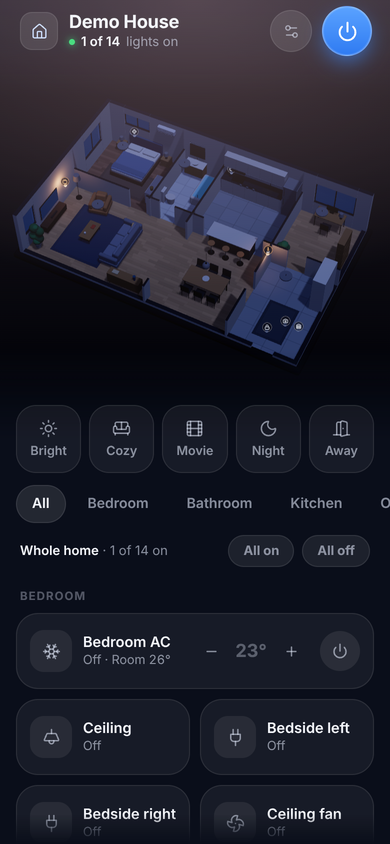
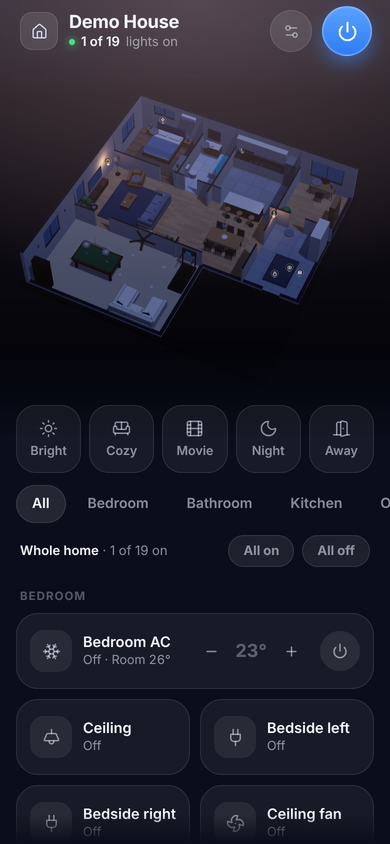
Demo Rec room with the extra models; docs; v0.2.0
- plans/demo.json: a carpeted Rec room with poolTable, sectional,
  treadmill and glassCabinet, lit by cans, sconce (both with points),
  fan, pendantBar and dome, linked to new demo_ entities only
- render tests: the Rec room loads with no console errors, its lights
  switch, and the editor moves a multi-point light as one
- privacy check: CSS classes such as .p-light.cans are not entity ids
- README and plan-format.md list the new furniture, floor and light types

Claude-Session: https://claude.ai/code/session_01HyyzAKm8x8BSYESU92KorK

diff --git a/tests/render/card.spec.js b/tests/render/card.spec.js
@@ -195,3 +195,62 @@ test('the AC sheet follows Home Assistant\'s temperature unit', async ({ page },
   await page.locator('house-control-card .sheet button[aria-label="Warmer"]').click();
   await expect.poll(() => calls(page)).toContainEqual({ domain: 'climate', service: 'set_temperature', data: { entity_id: 'climate.demo_bedroom_ac', temperature: 74 } });
 });
+
+test('the Rec room loads the extra furniture and light types without console errors', async ({ page }, info) => {
+  const urls = recordRequests(page);
+  const consoleErrors = [];
+  page.on('console', (m) => { if (m.type() === 'error' || m.type() === 'warning') consoleErrors.push(m.text()); });
+  const errors = await open(page);
+  const loaded = await page.evaluate(() => {
+    const { world, config } = window.__test.card._ui.debug;
+    const unit = (id) => world.lights.get(id);
+    return {
+      furniture: config.furniture.map((f) => f.type),
+      fixtures: Object.fromEntries(['rec.cans', 'rec.pool', 'rec.sconces', 'rec.fan', 'rec.dome']
+        .map((id) => [id, unit(id) ? unit(id).lights.length : 0])),
+    };
+  });
+  for (const type of ['poolTable', 'sectional', 'treadmill', 'glassCabinet']) expect(loaded.furniture).toContain(type);
+  // one three.js light per fixture: four cans, two sconces, the bar's two shades
+  expect(loaded.fixtures).toEqual({ 'rec.cans': 4, 'rec.pool': 2, 'rec.sconces': 2, 'rec.fan': 1, 'rec.dome': 1 });
+
+  await page.locator('house-control-card .room', { hasText: 'Rec room' }).click();
+  await expect(page.locator('house-control-card .tile[aria-label="Cans"]')).toBeVisible();
+  await resetCalls(page);
+  await page.locator('house-control-card .tile[aria-label="Cans"]').click();
+  await expect.poll(() => calls(page)).toContainEqual({ domain: 'light', service: 'turn_on', data: { entity_id: 'light.demo_rec_cans' } });
+  await page.evaluate(() => {
+    const { hass } = window.__test;
+    for (const id of ['light.demo_rec_pool_table', 'light.demo_rec_sconces', 'light.demo_rec_fan_light']) {
+      hass.set(id, { ...hass.states[id], state: 'on', attributes: { ...hass.states[id].attributes, brightness: 230 } });
+    }
+  });
+  await expect.poll(() => page.evaluate(() => window.__test.card._ui.debug.world.lights.get('rec.pool').goal)).toBeGreaterThan(0.8);
+  await page.waitForTimeout(1500);
+  await page.screenshot({ path: info.outputPath('rec-room.png') });
+  expect(errors).toEqual([]);
+  expect(consoleErrors).toEqual([]);
+  expectSameOrigin(urls, page.url());
+});
+
+test('the editor shows every point of a multi-point light and moves them together', async ({ page }, info) => {
+  await open(page);
+  await page.locator('house-control-card .top .round:not(.power)').click();
+  await page.locator('house-control-card .menu button', { hasText: 'Edit home' }).click();
+  const layer = page.locator('house-control-card .hc-editor-layer');
+  await expect(layer.locator('.p-light.cans .p-point')).toHaveCount(4);
+  await expect(layer.locator('.p-light.sconce .p-point')).toHaveCount(2);
+  await layer.locator('.p-light.cans .p-point').first().click();
+  await expect(layer.locator('.p-light.cans.sel')).toHaveCount(1);
+  await page.keyboard.press('ArrowRight');
+  await page.keyboard.press('ArrowDown');
+  await page.screenshot({ path: info.outputPath('editor-points.png') });
+  await page.locator('house-control-card .p-save').click();
+  // exact: also proves selecting a light did not write "capabilities": [] (that would make it on/off only)
+  await expect.poll(() => page.evaluate(() => window.__test.hass.dashboard.views[0].cards[0].plan.lights.find((l) => l.id === 'rec.cans')))
+    .toEqual({
+      id: 'rec.cans', name: 'Cans', room: 'rec', type: 'cans', pos: [6.25, 11.65],
+      points: [[5.35, 10.95], [7.15, 10.95], [5.35, 12.35], [7.15, 12.35]],
+      link: { service: 'homeassistant', id: 'light.demo_rec_cans' },
+    });
+});

diff --git a/tests/harness/mock-hass.js b/tests/harness/mock-hass.js
@@ -23,6 +23,11 @@ export function demoStates() {
     light('light.demo_office_ceiling', 'Office ceiling', ['brightness']),
     plain('switch.demo_desk_lamp', 'Desk lamp', 'on'),
     light('light.demo_hall_ceiling', 'Hall ceiling', ['color_temp']),
+    light('light.demo_rec_cans', 'Rec room cans', ['brightness']),
+    light('light.demo_rec_pool_table', 'Pool table light', ['color_temp']),
+    light('light.demo_rec_sconces', 'Rec room sconces', ['onoff']),
+    light('light.demo_rec_fan_light', 'Rec room fan light', ['brightness']),
+    light('light.demo_rec_dome', 'Rec room entry', ['onoff']),
     plain('climate.demo_bedroom_ac', 'Bedroom AC', 'off', {
       hvac_modes: ['off', 'cool', 'heat', 'fan_only', 'auto'], fan_modes: ['auto', 'low', 'high'],
       temperature: 23, current_temperature: 25.5, min_temp: 16, max_temp: 30, fan_mode: 'auto',

diff --git a/tests/unit/validate.test.js b/tests/unit/validate.test.js
@@ -9,7 +9,7 @@ const room = demo.rooms[0].id;
 
 test('the demo plan is valid', () => {
   const { config, warnings } = validatePlan(demo);
-  assert.equal(config.rooms.length, 7);
+  assert.equal(config.rooms.length, 8);
   assert.equal(config.entities.length, 7);
   assert.deepEqual(warnings, []);
 });

diff --git a/docs/plan-format.md b/docs/plan-format.md
@@ -37,19 +37,67 @@ the south wall.
 
 | Section | Fields |
 | --- | --- |
-| `rooms` | `id`, `name`, `rect: [x, z, width, depth]`, `floor` (`oak`, `walnut`, `tile`, `stone`). Rooms are rectangles: an L-shaped room is two rooms. Where rooms touch, an inner wall appears. |
+| `rooms` | `id`, `name`, `rect: [x, z, width, depth]`, `floor` (`oak`, `walnut`, `tile`, `stone`, `carpet`). Rooms are rectangles: an L-shaped room is two rooms. Where rooms touch, an inner wall appears. |
 | `openings` | `type` (`door`, `window`, `open`), `from: [x, z]`, `to: [x, z]` on one wall line (same x or same z), windows also `sill`, `head` |
-| `furniture` | `type`, `pos: [x, z]`, `rot`, plus `width`, `color`, `size`, `height`, `chairs`, `stools`, `upper` depending on the type: `sofa`, `armchair`, `coffeeTable`, `rug`, `tv`, `sideboard`, `dresser`, `desk`, `vanity`, `diningSet`, `island`, `kitchen`, `bed`, `wardrobe`, `bookshelf`, `plant`, `fridge`, `nightstand`, `bathtub`, `toilet` |
+| `furniture` | `type`, `pos: [x, z]`, `rot`, plus `width`, `color`, `size`, `height`, `chairs`, `stools`, `upper` depending on the type: `sofa`, `armchair`, `coffeeTable`, `rug`, `tv`, `sideboard`, `dresser`, `desk`, `vanity`, `diningSet`, `island`, `kitchen`, `bed`, `wardrobe`, `bookshelf`, `plant`, `fridge`, `nightstand`, `bathtub`, `toilet`, and the extra models below |
+
+### Extra furniture
+
+These come from this card (`upstream/three/extras.js`), not from house-control. Every option is
+optional; the defaults are in brackets.
+
+| `type` | Options |
+| --- | --- |
+| `poolTable` | `width` (2.5), `depth` (1.4), `felt`, `wood`, `balls` (`true`: a racked set) |
+| `sectional` | U-shaped sofa with a chaise at each end, facing forward: `width` (2.6), `depth` (0.95), `chaise` (0.85), `chaiseWidth` (0.95), `color` |
+| `glassCabinet` | Tall cabinet with glass doors and shelves of collectibles: `width` (0.9), `height` (2.0), `color`, `seed` (varies the shelves) |
+| `darkBookcase` | `width` (0.8), `height` (1.95), `color`, `seed` |
+| `mediaWall` | Wall-mounted TV over a media console: `width` (1.75), `screen` (1.45, the screen's width) |
+| `wetBar` | Base and wall cabinets with a sink: `width` (1.85), `wood`, `top`, `fridge` (`true`: a mini fridge at the +x end) |
+| `barCart` | Two tiers with bottles: `width` (0.95), `depth` (0.4) |
+| `pokerTable` | Round table with bar stools around it: `diameter` (1.3), `stools` (5), `wood`, `felt` |
+| `popcornMachine` | — |
+| `treadmill` | Deck along z, console at the back: `length` (1.9), `width` (0.85) |
+| `deskSetup` | Desk with two monitors and an office chair: `width` (2.0), `depth` (0.7), `chair` (colour) |
+| `endTable` | `width` (0.5), `depth` (0.45), `height` (0.6), `color` |
+| `pedestalSink` | With a mirror above: `width` (0.6) |
+| `tubOnly`, `tubShower` | Bathtub, with or without a shower curtain: `length` (1.55) |
+| `stairs` | A straight flight rising towards the back: `width` (1.0), `length` (3.5), `rise` (2.6), `steps` (14), `color` |
+| `catTree` | `height` (1.6), `cat` (colour) |
+| `litterRobot` | A self-cleaning litter box |
+| `dehumidifier`, `airPurifier` | `width`, `depth`, `height` |
 
 ## `lights`
 
 | Field | Meaning |
 | --- | --- |
 | `id`, `name`, `room` | Unique id, the tile's label, the `id` of its room |
-| `type` | `ceiling`, `pendant`, `spots`, `floor`, `table` or `strip` |
-| `pos`, `y`, `rot`, `length` | Position, height, rotation, length of a strip |
+| `type` | `ceiling`, `pendant`, `spots`, `floor`, `table`, `strip`, or one of this card's extra types: `fan`, `pendantBar`, `sconce`, `cans`, `dome` (below) |
+| `pos`, `y`, `rot`, `length` | Position, height, rotation, length of a strip or pendant bar |
+| `points` | `cans` and `sconce` only: several fixtures on one switch, see below |
 | `capabilities` | Any of `brightness`, `temp`, `color`. **Leave it out** for a linked light and the card works it out from the entity's `supported_color_modes`. `[]` means on/off only |
 | `link` | `{ "service": "homeassistant", "id": "light.your_light" }`. Only `light.*` and `switch.*` entities; a `switch.*` is always on/off only |
+
+### Extra light types
+
+| `type` | What it is | Options |
+| --- | --- | --- |
+| `fan` | Ceiling fan with a bowl light; the light entity drives the bowl | `y`, `blades` (colour) |
+| `pendantBar` | A bar with two dome shades, e.g. over a pool table or an island | `length` (1.3, along x), `shade` (colour), `y` (1.55) |
+| `dome` | Flush dome ceiling light | `y` |
+| `cans` | Recessed ceiling cans on one switch | `points: [[x, z], ...]` |
+| `sconce` | Wall sconces on one switch | `points: [[x, z, rot], ...]`; `rot` turns each sconce away from its wall (`90` on a west wall, `-90` east, `0` north, `180` south) |
+
+`points` are plan coordinates, like `pos`. `pos` is where the light's tile and tap target sit; put it
+in the middle of its points. In the editor the points show as dots joined to `pos`, and dragging any
+of them moves the whole light. Leave `rot` at `0` for these two types: it would turn every point
+around `pos`.
+
+```json
+{ "id": "rec.cans", "name": "Cans", "room": "rec", "type": "cans", "pos": [6.2, 11.6],
+  "points": [[5.3, 10.9], [7.1, 10.9], [5.3, 12.3], [7.1, 12.3]],
+  "link": { "service": "homeassistant", "id": "light.your_cans" } }
+```
 
 A light without a `link` is simulated: tapping it only changes the picture.
 

diff --git a/README.md b/README.md
@@ -78,8 +78,15 @@ notch.
 The plan format is house-control's, with Home Assistant links and a new `entities` section. See
 **[docs/plan-format.md](docs/plan-format.md)**. In short:
 
-- `rooms` are rectangles in metres (`x` grows east, `z` grows south), `openings` are doors and
-  windows, `furniture` is decoration.
+- `rooms` are rectangles in metres (`x` grows east, `z` grows south), with `oak`, `walnut`,
+  `tile`, `stone` or `carpet` floors. `openings` are doors and windows, `furniture` is decoration:
+  house-control's pieces (sofa, bed, kitchen, dining set...) plus this card's extras: `poolTable`,
+  `sectional`, `glassCabinet`, `darkBookcase`, `mediaWall`, `wetBar`, `barCart`, `pokerTable`,
+  `popcornMachine`, `treadmill`, `deskSetup`, `endTable`, `pedestalSink`, `tubOnly`, `tubShower`,
+  `stairs`, `catTree`, `litterRobot`, `dehumidifier`, `airPurifier`.
+- Light fixtures: `ceiling`, `pendant`, `spots`, `floor`, `table`, `strip`, plus `fan`,
+  `pendantBar`, `dome`, and `cans` and `sconce`, which take a `points` list for several
+  fixtures on one switch.
 - `lights` link to `light.*` or `switch.*` entities with `link: { service: homeassistant, id: ... }`.
   Leave `capabilities` out and they come from the entity's `supported_color_modes`.
 - `entities` holds everything else (TV, thermostat, lock...); `tap` is `more-info`, `toggle` or
